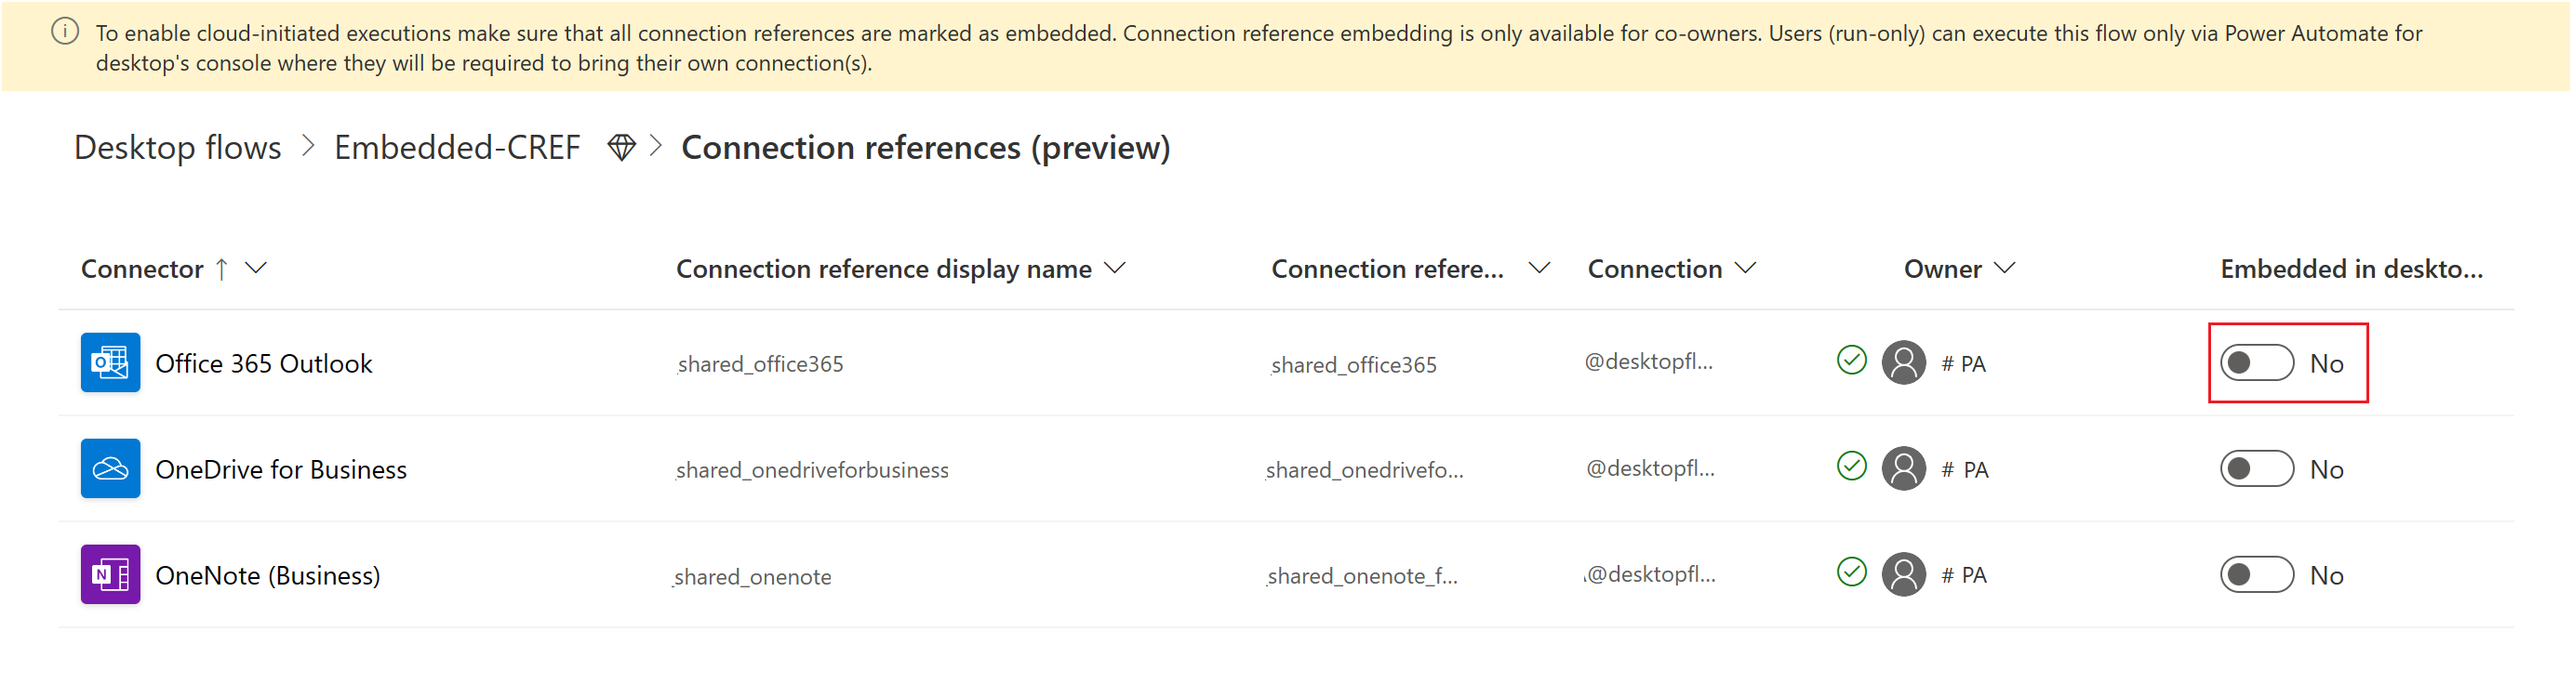
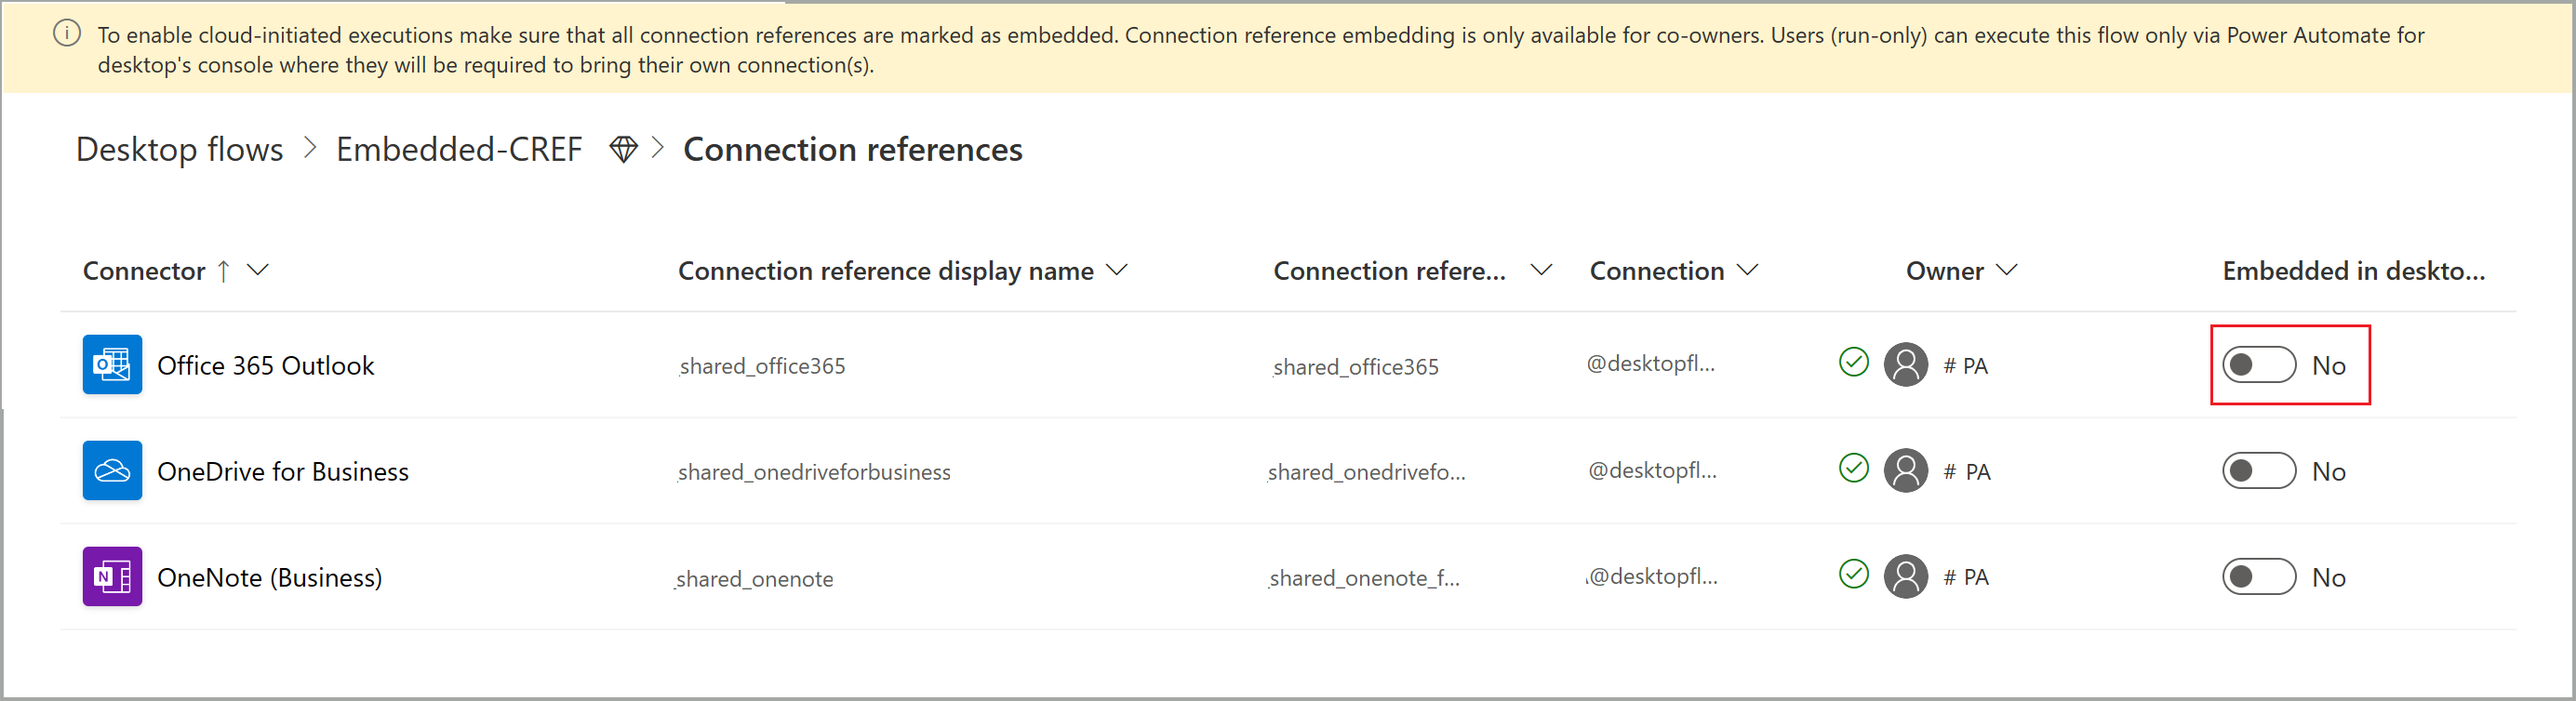
small changes and replace existing images

diff --git a/articles/desktop-flows/actions-reference/cloudconnectors.md b/articles/desktop-flows/actions-reference/cloudconnectors.md
@@ -43,7 +43,6 @@ search.audienceType:
     - [Update a row in selected environment](/connectors/commondataserviceforapps/#update-a-row-in-selected-environment)
     - [Upload a file or an image to selected environment](/connectors/commondataserviceforapps/#upload-a-file-or-an-image-to-selected-environment)
 
-  
 ## Use files in cloud connector actions
 
 To pass a file as an input to a cloud connector action, you must first convert it to binary data, using the [Convert file to binary data](file.md#convertfiletobinaryaction) action.
@@ -59,12 +58,12 @@ To embed a connection reference to a flow, you have access to as a co-owner:
 - Select the desktop flow in Power Automate (make.powerautomate.com), and then select **Details**.
 - In the **Connection references** section, select **Manage.**
 
-:::image type="content" source="media/cloudconnectors/manage_connection_references_button-GA.png" alt-text="Screenshot of the Manage Connections button" border="false":::
+    :::image type="content" source="media/cloudconnectors/manage_connection_references_button.png" alt-text="Screenshot of the Manage Connections button" border="false":::
 
 - In the **Connection references** screen all of the connection references used in a flow are displayed.
 - Set the **Embed in desktop flow** option to **Yes** to enable it.
 
-:::image type="content" source="media/cloudconnectors/embed_a_connection_reference_to_a_flow-GA.png" alt-text="Screenshot of the Manage Connections menu" border="false" lightbox="media/cloudconnectors/embed_a_connection_reference_to_a_flow-GA.png":::
+    :::image type="content" source="media/cloudconnectors/embed_a_connection_reference_to_a_flow.png" alt-text="Screenshot of the Manage Connections menu" border="false" lightbox="media/cloudconnectors/embed_a_connection_reference_to_a_flow.png":::
 
 After you confirm your selection, the connection reference is embedded in the desktop flow.
 
